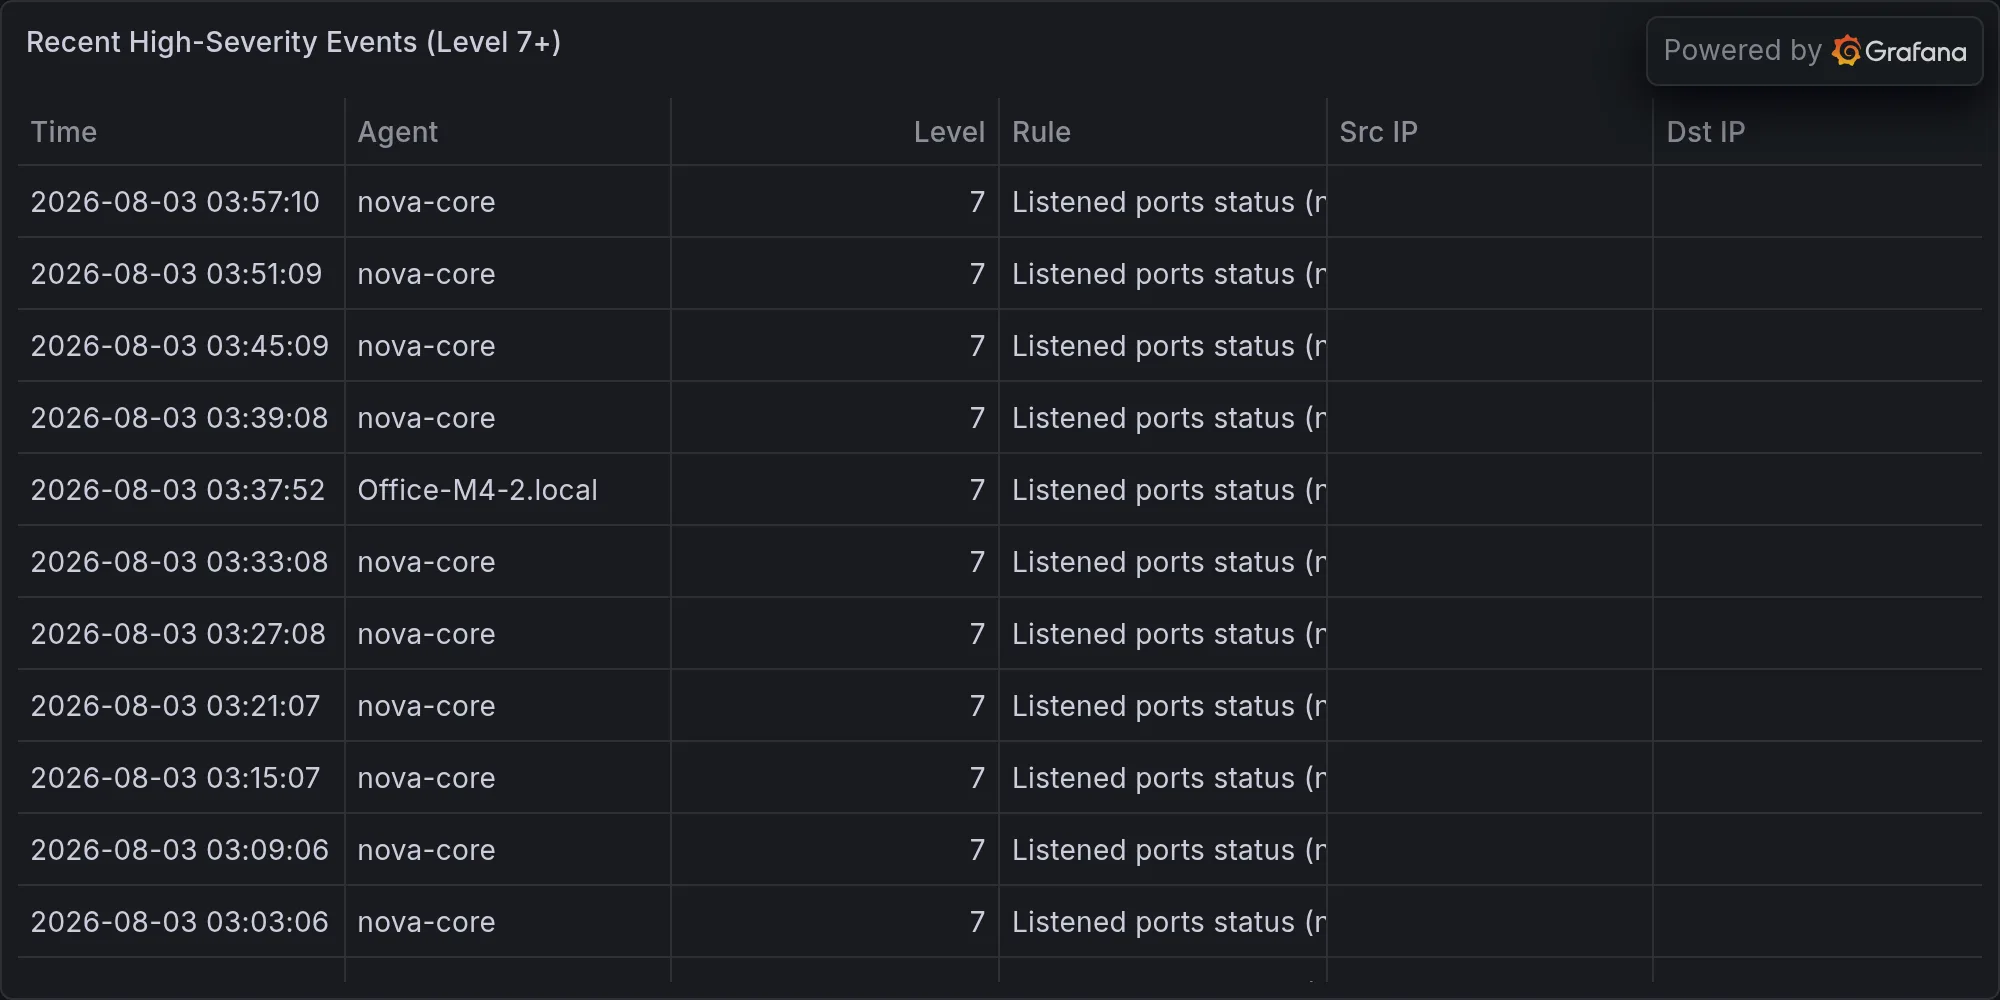
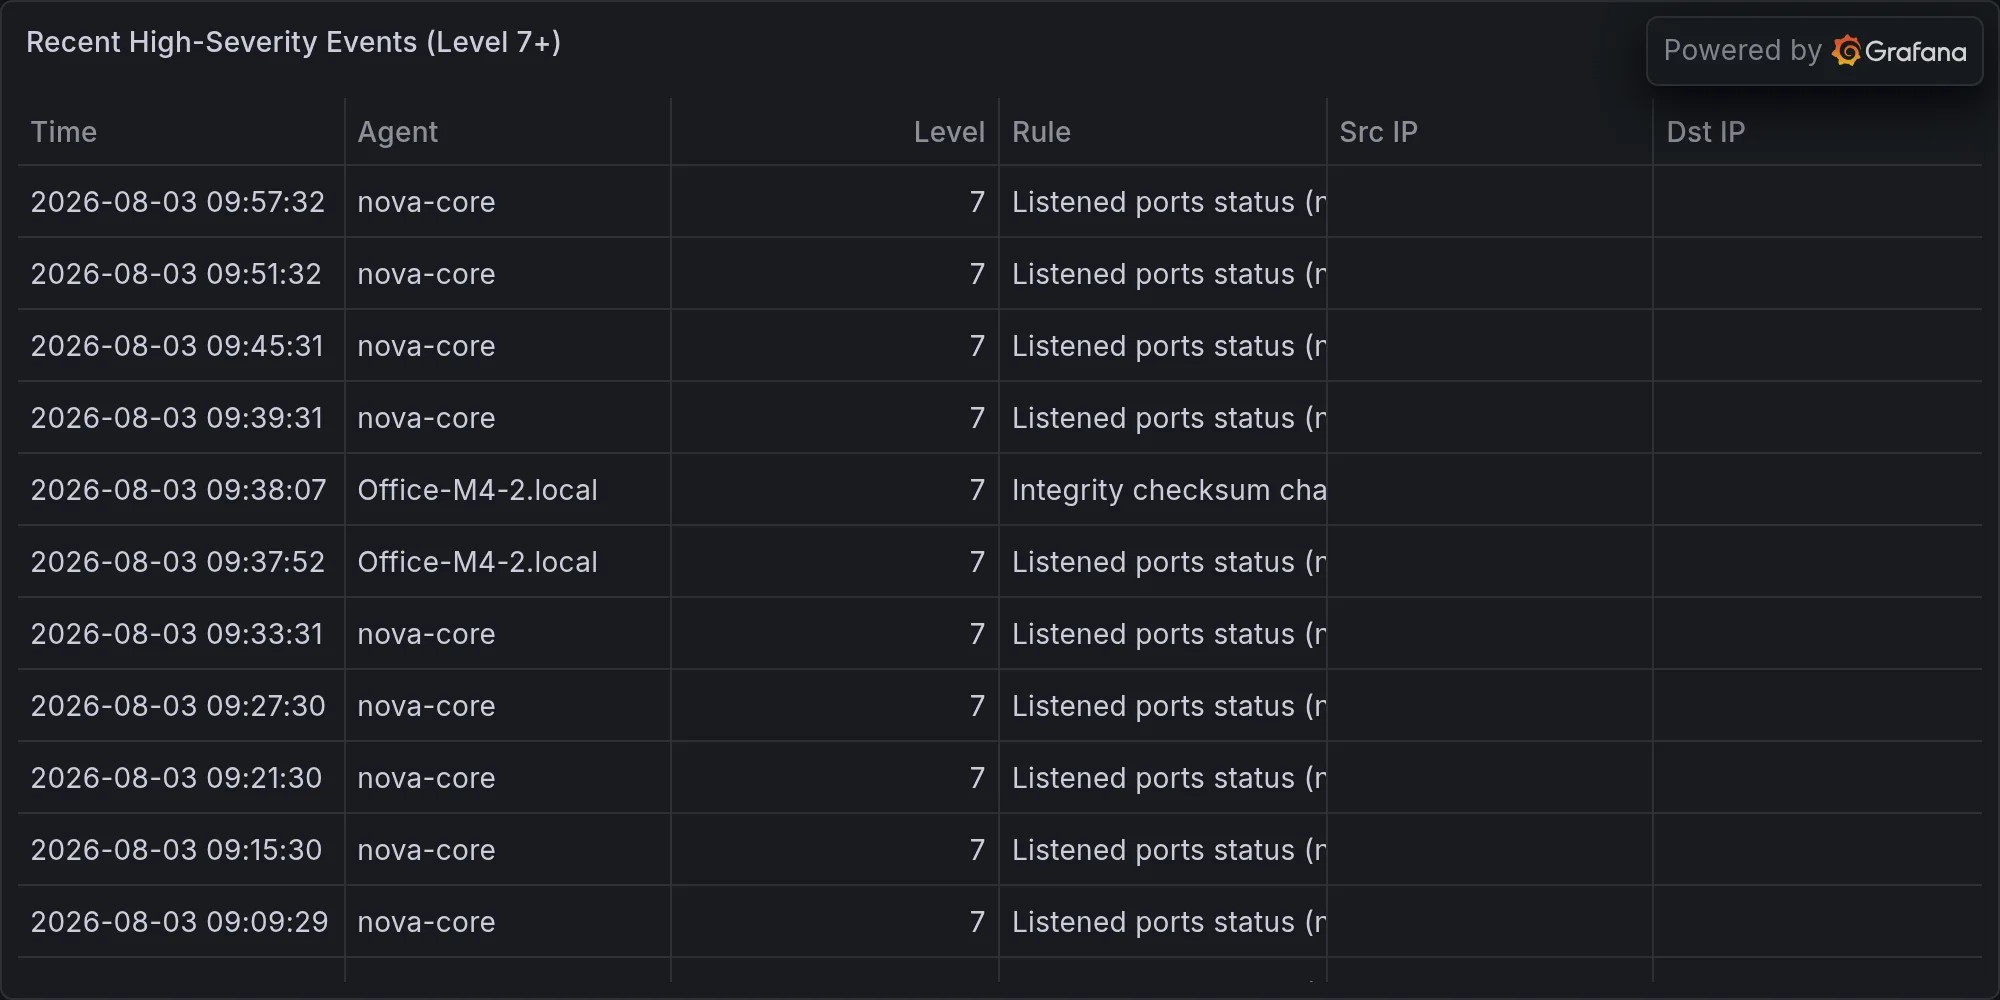
security: 2026-08-03 — **DEVELOPING — QUALYS ZERO-DAY REMEDIATION RESEARC

diff --git a/content/operations/2026-08-03-developing-qualys-zero-day-remediation-research-published-de.md b/content/operations/2026-08-03-developing-qualys-zero-day-remediation-research-published-de.md
@@ -1,0 +1,48 @@
+---
+title: "🛡 **DEVELOPING — QUALYS ZERO-DAY REMEDIATION RESEARCH PUBLISHED; DETAILS UNCONFIRMED**"
+date: 2026-08-03T10:02:20-07:00
+draft: false
+categories: ["operations"]
+tags: ["breaking-alert", "qualys-threat-research-zero-day-remediat", "security"]
+description: "BREAKING: Qualys Threat Research: Zero-Day Remediation Meets Operational Resiliency"
+cover:
+  image: "/images/operations/2026-08-03-developing-qualys-zero-day-remediation-research-published-de.webp"
+  alt: "**DEVELOPING — QUALYS ZERO-DAY REMEDIATION RESEARCH PUBLISHED; DETAILS UNCONFIRMED**"
+  relative: false
+---
+
+*Published Monday, August 03, 2026 at 10:02 AM PT*
+
+![**DEVELOPING — QUALYS ZERO-DAY REMEDIATION RESEARCH PUBLISHED; DETAILS UNCONFIRMED**](/images/operations/2026-08-03-developing-qualys-zero-day-remediation-research-published-de.webp)
+
+**BLUF:** Qualys Threat Research has published material titled "Zero-Day Remediation Meets Operational Resiliency." Source material contains title only; no CVE, technical details, affected products, or impact scope are currently available. Monitoring for published research content.
+
+**DETAILS:**
+- Source: Qualys Threat Research publication (title confirmed from available materials)
+- Subject: Zero-day vulnerability remediation and operational resilience strategies
+- Related Qualys research axis: CISA BOD 26-04 compliance, 3-day remediation SLAs, cloud-native security operations, AI-driven threat response
+- No CVE identifier, vendor name, or affected product family disclosed in available material
+- No technical exploit code, proof-of-concept, or active exploitation reports present
+
+**IMPACT:**
+Unknown at this time. The published research may address:
+- Generic zero-day remediation strategy / policy guidance, OR
+- Specific vulnerability requiring urgent action
+
+Scope cannot be determined from title alone.
+
+**RECOMMENDED ACTIONS:**
+1. **Obtain full Qualys research publication** — confirm whether this is strategic guidance or incident-specific advisory
+2. **Cross-reference CISA alerts** — check for related BOD 26-04 activity or emergency directives
+3. **Resume when content is available** — if technical details emerge, escalate per organization's disclosure-response SLA
+
+**SOURCES:**
+- Qualys Threat Research (title via Nova memory index; full publication content not yet ingested)
+
+**STATUS:** Monitoring. Update pending full content acquisition.
+
+---
+
+**Recent high-severity events at publish time:**
+
+![Recent high-severity events](/images/operations/2026-08-03-breaking-alert-posture.webp)
